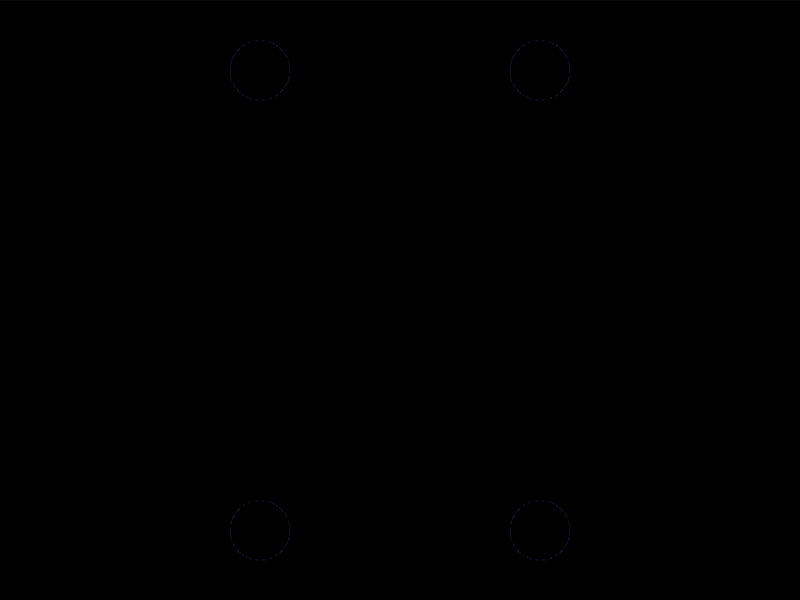
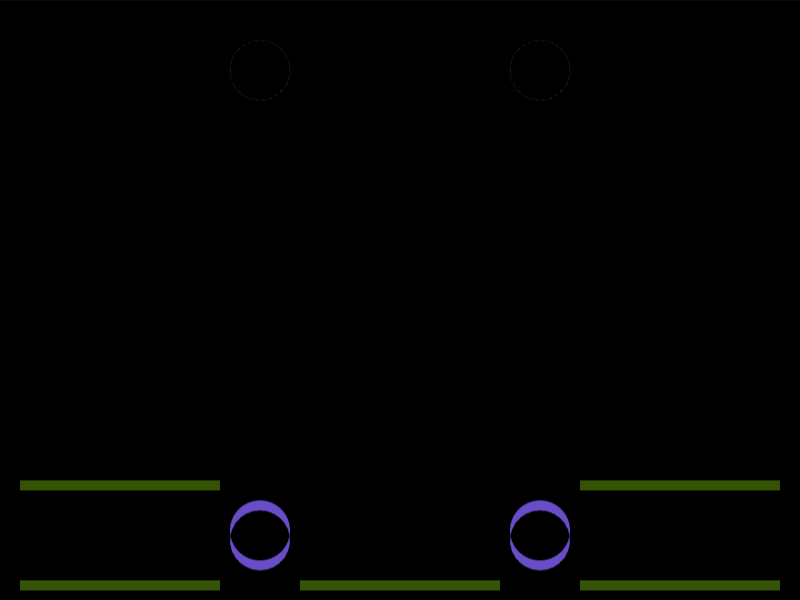
Score: 693.95, Characters: 152 (100.00% match) - CSSHub

diff --git a/Daily Targets/2026-08-22/README.md b/Daily Targets/2026-08-22/README.md
@@ -22,7 +22,7 @@ Challenge: <https://cssbattle.dev/play/YXhLYIBBNDCRRLlXkXEH>
 ## Code
 
 ```html
-<p><style>&{background:#94b31f;border-block:32q dotted#fff;margin:5%115;*{margin:-40-105;border-block:53q dashed#5f5f1e;*{margin:0 140;background:#5f5f1e;height:80
+<p><style>*{border-block:var(--b,32Q dotted#fff)}&{background:#94b31f;margin:5%115;*{--b:var(--c,53Q)dashed#5f5f1e;margin:-40-105;*{--c:5lh;margin:0 140
 ```
 
 ## Prettified code
@@ -30,17 +30,18 @@ Challenge: <https://cssbattle.dev/play/YXhLYIBBNDCRRLlXkXEH>
 ```html
 <p>
 <style>
+* {
+  border-block: var(--b, 32Q dotted #fff);
+}
 & {
   background: #94b31f;
-  border-block: 32Q dotted #fff;
   margin: 5% 115;
   * {
+    --b: var(--c, 53Q) dashed #5f5f1e;
     margin: -40 -105;
-    border-block: 53Q dashed #5f5f1e;
     * {
+      --c: 5lh;
       margin: 0 140;
-      background: #5f5f1e;
-      height: 80;
     }
   }
 }

diff --git a/README.md b/README.md
@@ -212,7 +212,7 @@ Note - I have not yet complete all the challenges.
 <li><a href="./Daily%20Targets/2026-08-19/">Aug 19, 2026</a> (163 Characters)</li>
 <li><a href="./Daily%20Targets/2026-08-20/">Aug 20, 2026</a> (162 Characters)</li>
 <li><a href="./Daily%20Targets/2026-08-21/">Aug 21, 2026</a> (186 Characters)</li>
-<li><a href="./Daily%20Targets/2026-08-22/">Aug 22, 2026</a> (163 Characters)</li>
+<li><a href="./Daily%20Targets/2026-08-22/">Aug 22, 2026</a> (152 Characters)</li>
 </ul>
 </details>
 </li>
